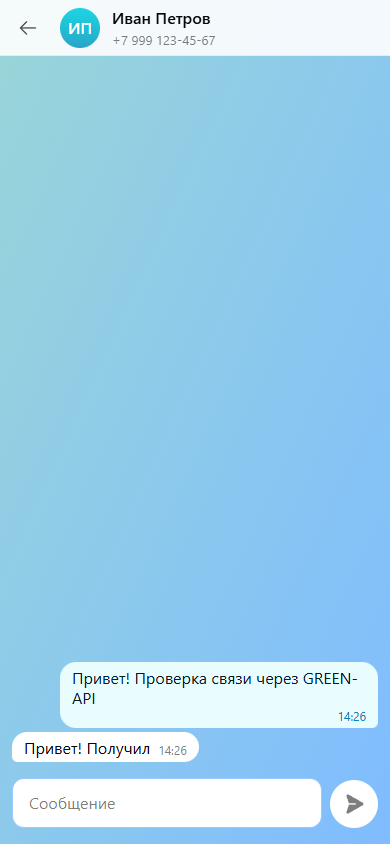
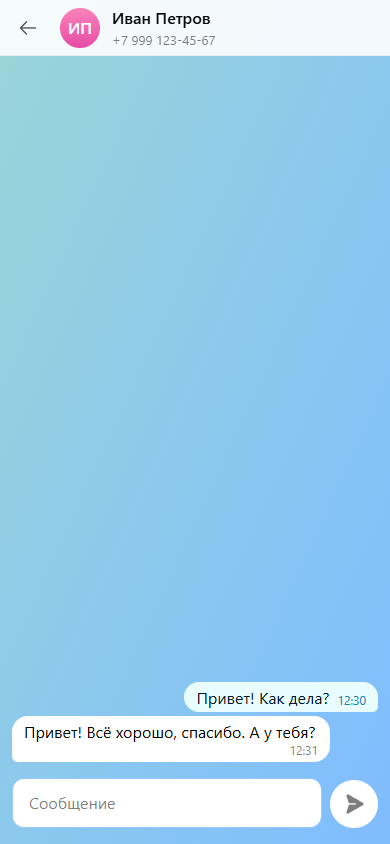
docs: update readme and screenshots

Changed region(s): [[0.0308, 0.7701, 0.9846, 0.9242], [0.1538, 0.0, 0.2769, 0.0616]]

diff --git a/README.md b/README.md
@@ -2,7 +2,7 @@
 
 Небольшой клиент мессенджера MAX на React. Он входит в инстанс GREEN-API по idInstance и apiTokenInstance, создаёт чат по номеру телефона, отправляет текстовые сообщения и принимает ответы.
 
-Демо: https://maketostep.github.io/green-api-max-chat/
+Демо: https://maketostep.github.io/GREEN-WEBCHAT/
 
 ![Десктопная версия](docs/screenshot.png)
 
@@ -44,6 +44,7 @@ HTTP API ничего не получает, пока в настройках и
 - Входящие уведомления содержат chatId, номера телефона в них нет. Ответ попадает в тот же чат, который вы создали.
 - Отправка идёт через SendMessage. Приложение отправляет только текст, до 4000 символов.
 - Приём работает через long polling HTTP API: ReceiveNotification с `receiveTimeout=20`, затем DeleteNotification для каждого уведомления. Текстовые сообщения попадают в чат, остальные уведомления удаляются без показа.
+- Очередь уведомлений читает одна вкладка браузера, остальные получают сообщения через localStorage. Проверка настроек сама повторяется до трёх раз, если GREEN-API отвечает 429.
 - При сетевой ошибке приложение показывает баннер и повторяет запрос каждые 5 секунд.
 - История чатов и данные входа лежат в localStorage браузера. Кнопка «Выйти» удаляет их.
 
